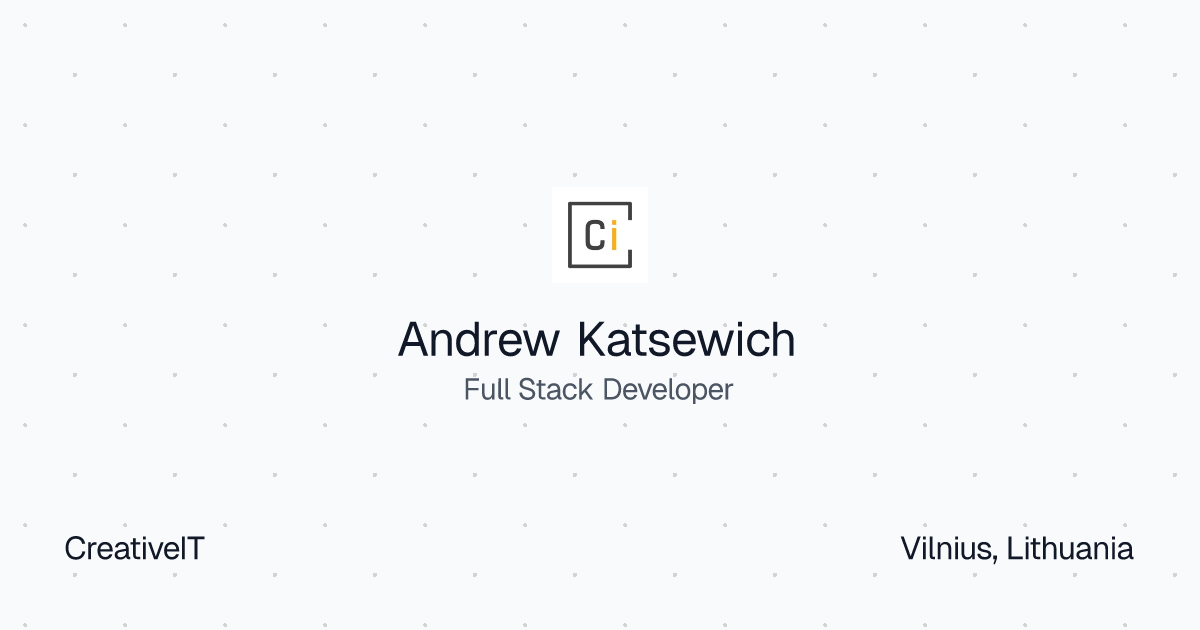
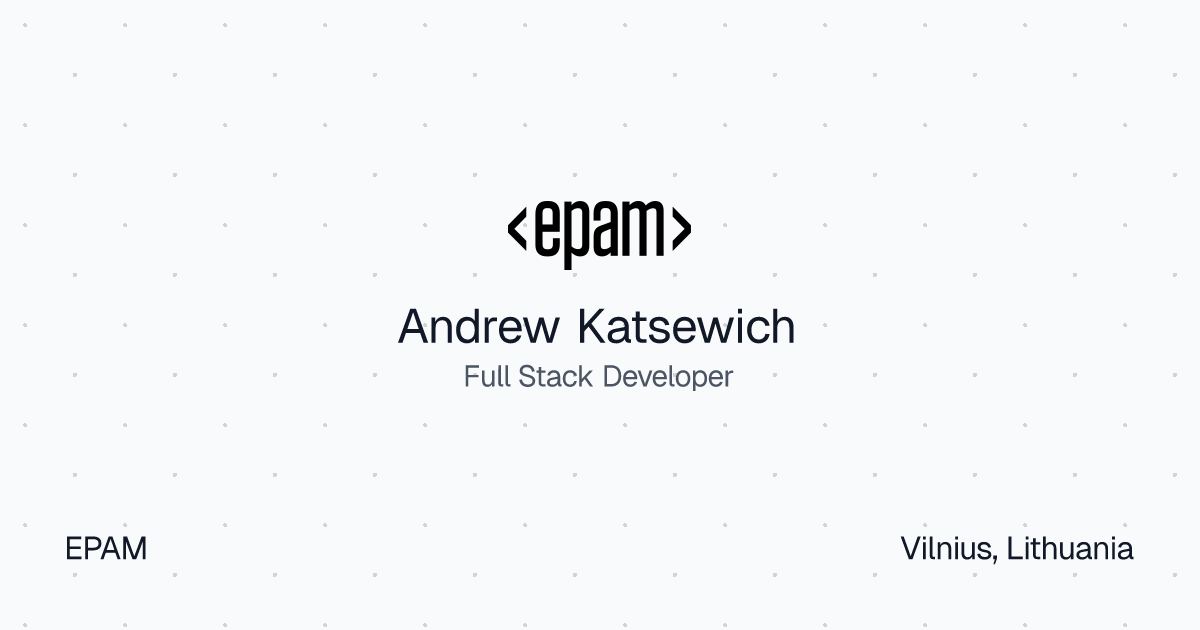
Update card api

Changed region(s): [[0.3083, 0.4825, 0.6783, 0.6333], [0.4008, 0.3016, 0.5858, 0.4524], [0.0617, 0.8444, 0.185, 0.9048]]

diff --git a/src/pages/api/card.ts b/src/pages/api/card.ts
@@ -1,8 +1,5 @@
 import { ImageResponse } from '@vercel/og';
-import { location } from '~/data';
-import companyLogo from '~/assets/images/employers/creativeit.jpeg';
-
-export const runtime = 'edge';
+import { jobs, location } from '~/data';
 
 const getUrl = () => {
 	if (process.env.NODE_ENV === 'development') {
@@ -11,11 +8,15 @@ const getUrl = () => {
 	return `https://${process.env.VERCEL_URL}`;
 };
 
-const font = fetch(`${getUrl()}/assets/fonts/Geist/Geist-Regular.otf`).then((res) => res.arrayBuffer());
+const font = fetch(`${getUrl()}/assets/fonts/Geist/Geist-Regular.otf`);
 
 export async function GET() {
-	console.log('getUrl() :>> ', getUrl());
-	const fontData = await font;
+	let fontData: ArrayBuffer | null = null;
+	try {
+		fontData = await (await font).arrayBuffer();
+	} catch(err) {
+		console.log('err :>> ', err);
+	}
 
 	return new ImageResponse(
 		{
@@ -36,10 +37,10 @@ export async function GET() {
 					{
 						type: 'img',
 						props: {
-							src: `${getUrl()}/assets/creativeit.jpeg`,
-							width: companyLogo.width,
-							height: companyLogo.height,
-							tw: 'w-24 h-24 mt-auto',
+							src: `${getUrl()}/assets/epam.png`,
+							width: jobs[0].employeeImg?.width,
+							height: jobs[0].employeeImg?.height,
+							tw: 'mt-auto',
 						},
 					},
 					{
@@ -64,7 +65,7 @@ export async function GET() {
 								{
 									type: 'div',
 									props: {
-										children: 'CreativeIT',
+										children: jobs[0].employerName,
 									},
 								},
 								{
@@ -82,14 +83,16 @@ export async function GET() {
 		{
 			width: 1200,
 			height: 630,
-			fonts: [
-				{
-					name: 'Geist',
-					data: fontData,
-					weight: 400,
-					style: 'normal',
-				},
-			],
+			// fonts: fontData
+			// 	? [
+			// 			{
+			// 				name: 'Geist',
+			// 				data: fontData,
+			// 				weight: 400,
+			// 				style: 'normal',
+			// 			},
+			// 		]
+			// 	: [],
 		}
 	);
 }

diff --git a/src/data.tsx b/src/data.tsx
@@ -1,5 +1,6 @@
 import type { ImageMetadata } from 'astro';
 import CreativeITImg from '~/assets/images/employers/creativeit.jpeg';
+import EPAMImg from '~/assets/images/employers/epam.png';
 import TargsoftImg from '~/assets/images/employers/targsoft.jpeg';
 import TotleImg from '~/assets/images/employers/totle.png';
 import WebsecretImg from '~/assets/images/employers/websecret.jpeg';
@@ -62,7 +63,7 @@ export interface Job {
 export const jobs: Job[] = [
 	{
 		title: 'Frontend Web Developer',
-		employeeImg: CreativeITImg,
+		employeeImg: EPAMImg,
 		employerName: 'EPAM',
 		period: 'Jan 2025 - Present',
 		description: '',
